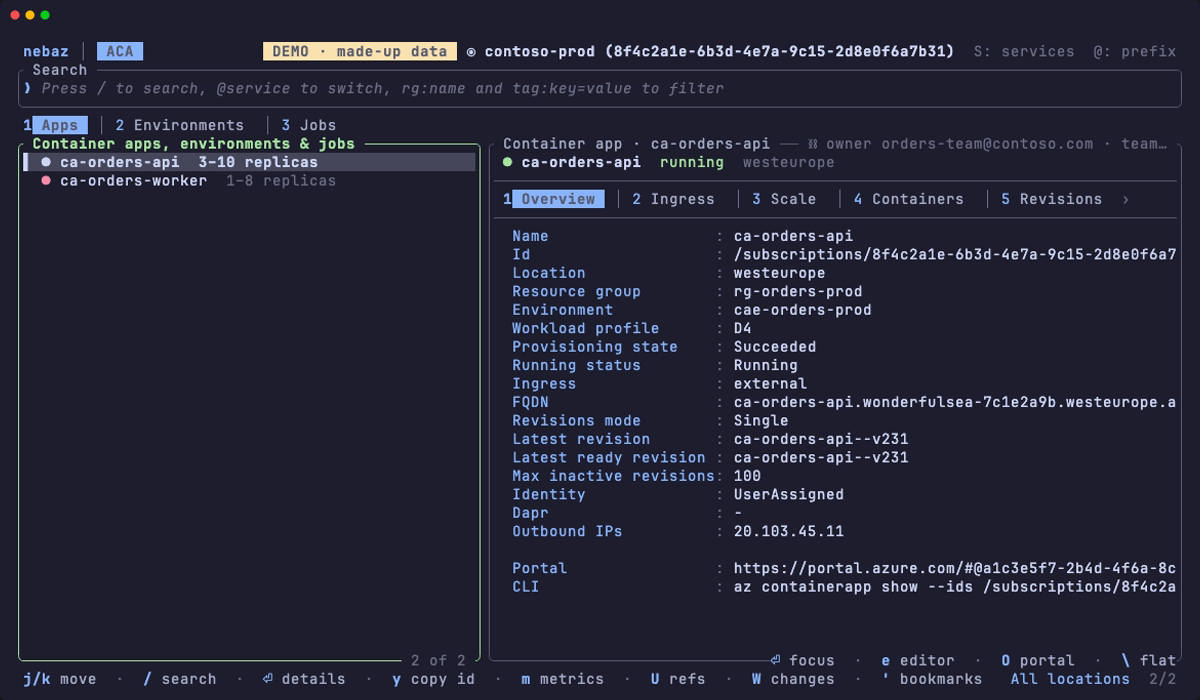
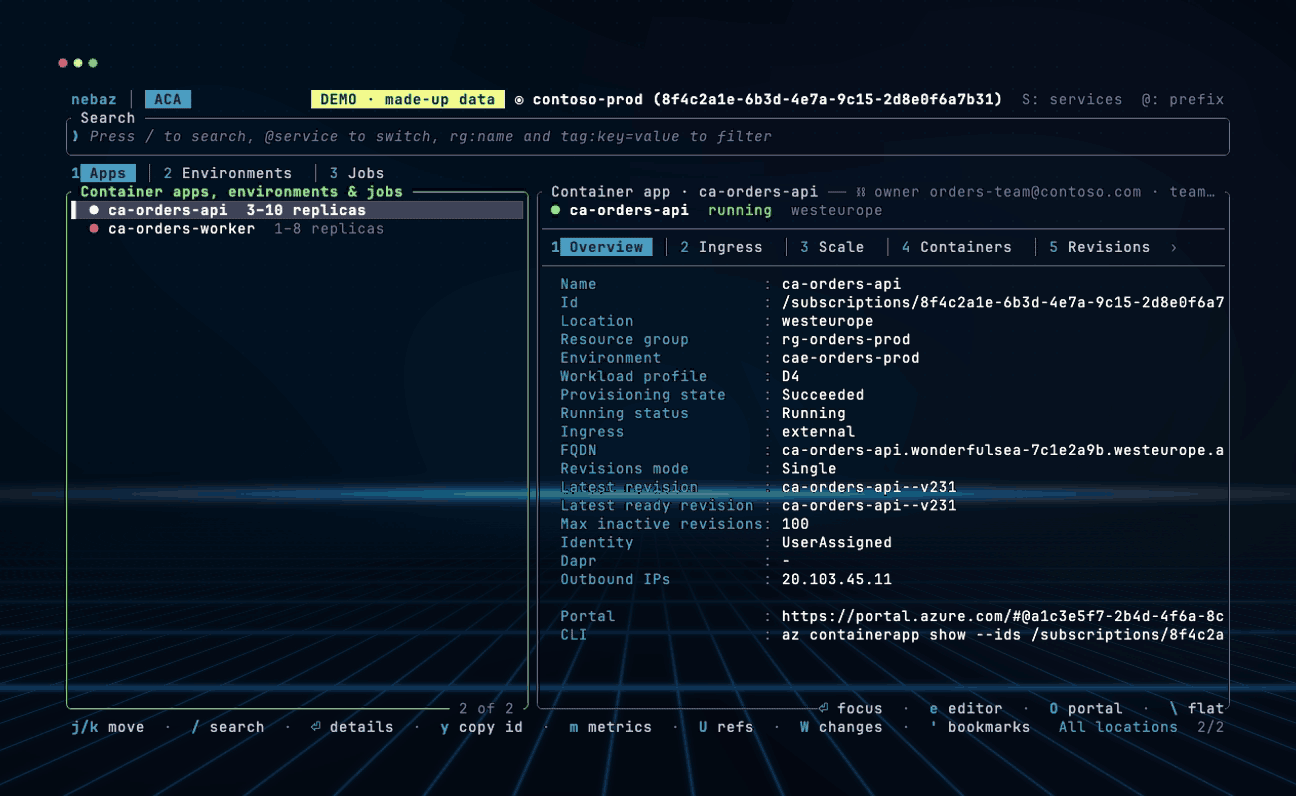
Demo: Dracula over a generated backdrop; chip text through the palette (#132)
The recordings get their own look instead of neboto's Catppuccin Mocha:
nebaz's dracula preset with the accent muted to #4a9fc4, the terminal
showing a generated Azure grid backdrop through it.

- demo/render.sh records each tape (terminal background and margin in one
  key colour, to demo/.raw/), keys the colour out and lays the take over
  demo/backdrop.png dimmed to 35%. The hero is re-paletted to 64 colours
  and its first frame becomes demo/poster.png.
- demo/backdrop.py generates the backdrop, so it carries no licence.
- Every GIF and the poster re-recorded at 1296x796 (the same 1200x700
  terminal inside a 48 px margin).
- The palette gains chip_fg, the text on a filled chip, replacing the
  hardcoded Color::Black on the active tab, the active sub-tab and the
  endpoint badge. Terminals that draw bold as bright turned bold ANSI
  black into a grey that vanished on the chip; chip_fg is RGB in every
  preset, which a test now holds.

diff --git a/src/ui/theme.rs b/src/ui/theme.rs
@@ -46,6 +46,10 @@ pub struct Palette {
     pub selection_bg_dim: Color,
     /// Selection bar text — paired with the selection backgrounds.
     pub selection_fg: Color,
+    /// Text on a filled chip (the active tab on `brand`, the endpoint badge
+    /// on `warning`). RGB, never ANSI black: terminals that draw bold as
+    /// bright turn bold ANSI black into a grey that vanishes on the chip.
+    pub chip_fg: Color,
 }
 
 /// `0xrrggbb` → `Color::Rgb` — keeps the preset tables readable.
@@ -87,6 +91,7 @@ impl Palette {
             selection_bg: Color::Rgb(38, 68, 110),
             selection_bg_dim: Color::Rgb(55, 55, 55),
             selection_fg: Color::White,
+            chip_fg: rgb(0x000000),
         }
     }
 
@@ -108,6 +113,7 @@ impl Palette {
             selection_bg: Color::Rgb(190, 210, 240),
             selection_bg_dim: Color::Rgb(222, 222, 222),
             selection_fg: Color::Black,
+            chip_fg: rgb(0x000000),
         }
     }
 
@@ -128,6 +134,7 @@ impl Palette {
             selection_bg: rgb(0x073642), // base02 (canonical highlight)
             selection_bg_dim: rgb(0x05303a),
             selection_fg: rgb(0xfdf6e3), // base3
+            chip_fg: rgb(0x002b36), // base03
         }
     }
 
@@ -148,6 +155,7 @@ impl Palette {
             selection_bg: rgb(0xeee8d5), // base2
             selection_bg_dim: rgb(0xf5efdc),
             selection_fg: rgb(0x073642), // base02
+            chip_fg: rgb(0x002b36), // base03
         }
     }
 
@@ -168,6 +176,7 @@ impl Palette {
             selection_bg: rgb(0x504945), // bg2
             selection_bg_dim: rgb(0x3c3836),
             selection_fg: rgb(0xebdbb2),
+            chip_fg: rgb(0x1d2021), // bg0_h
         }
     }
 
@@ -188,6 +197,7 @@ impl Palette {
             selection_bg: rgb(0xebdbb2),
             selection_bg_dim: rgb(0xf2e5bc),
             selection_fg: rgb(0x3c3836),
+            chip_fg: rgb(0x1d2021), // bg0_h
         }
     }
 
@@ -208,6 +218,7 @@ impl Palette {
             selection_bg: rgb(0x44475a), // current line
             selection_bg_dim: rgb(0x343746),
             selection_fg: rgb(0xf8f8f2),
+            chip_fg: rgb(0x21222c),
         }
     }
 
@@ -228,6 +239,7 @@ impl Palette {
             selection_bg: rgb(0x434c5e), // nord2
             selection_bg_dim: rgb(0x3b4252),
             selection_fg: rgb(0xeceff4),
+            chip_fg: rgb(0x2e3440), // nord0
         }
     }
 
@@ -248,6 +260,7 @@ impl Palette {
             selection_bg: rgb(0x45475a), // surface1
             selection_bg_dim: rgb(0x313244),
             selection_fg: rgb(0xcdd6f4),
+            chip_fg: rgb(0x11111b), // crust
         }
     }
 
@@ -268,6 +281,7 @@ impl Palette {
             selection_bg: rgb(0xccd0da),
             selection_bg_dim: rgb(0xdce0e8),
             selection_fg: rgb(0x4c4f69),
+            chip_fg: rgb(0x4c4f69), // text
         }
     }
 
@@ -313,6 +327,7 @@ impl Palette {
             "selection_bg" => self.selection_bg = color,
             "selection_bg_dim" => self.selection_bg_dim = color,
             "selection_fg" => self.selection_fg = color,
+            "chip_fg" => self.chip_fg = color,
             _ => return false,
         }
         true
@@ -403,6 +418,9 @@ pub fn success() -> Color {
 }
 pub fn warning() -> Color {
     palette().warning
+}
+pub fn chip_fg() -> Color {
+    palette().chip_fg
 }
 
 /// `#rrggbb` hex or an ANSI color name (the ratatui `Color` names,
@@ -545,6 +563,16 @@ mod tests {
         assert!(Palette::by_name("mocha").is_some());
         assert!(Palette::by_name("latte").is_some());
         assert!(Palette::by_name("tokyonight").is_none());
+    }
+
+    #[test]
+    fn every_preset_draws_chip_text_in_rgb() {
+        // ANSI black under bold renders as bright black (grey) in many
+        // terminals, which vanishes on the chip colour.
+        for name in PRESET_NAMES {
+            let p = Palette::by_name(name).unwrap();
+            assert!(matches!(p.chip_fg, Color::Rgb(..)), "preset {} chip_fg is not RGB", name);
+        }
     }
 
     #[test]

diff --git a/demo/backdrop.py b/demo/backdrop.py
@@ -1,0 +1,69 @@
+# /// script
+# dependencies = ["numpy", "pillow"]
+# ///
+"""The backdrop behind every demo recording: Azure glows over a navy sky,
+a glowing horizon and a perspective grid. Generated, so it carries no
+licence. demo/render.sh dims it and shows it through the terminal.
+
+    uv run demo/backdrop.py demo/backdrop.png
+
+The size is the tapes' Width × Height (the terminal plus a 48 px margin).
+"""
+import sys
+
+import numpy as np
+from PIL import Image, ImageFilter
+
+W, H = 1296, 796
+out = sys.argv[1]
+y, x = np.mgrid[0:H, 0:W].astype(np.float32)
+
+
+def hexc(h):
+    return np.array([int(h[i:i + 2], 16) for i in (1, 3, 5)], np.float32) / 255
+
+
+def glow(cx, cy, r, color, strength):
+    d = ((x - cx) ** 2 + (y - cy) ** 2) / (r * r)
+    return np.exp(-d)[..., None] * hexc(color) * strength
+
+
+# Base: deep navy, slightly lighter towards the horizon.
+t = (y / H)[..., None]
+img = hexc("#030814") * (1 - t) + hexc("#06132b") * t
+
+# Glows: Azure blue top-left, cyan right, a touch of violet top-right.
+img += glow(180, 120, 520, "#0078d4", 0.32)
+img += glow(1150, 420, 420, "#50e6ff", 0.12)
+img += glow(1050, 60, 380, "#5b3fd1", 0.20)
+
+# Perspective grid below the horizon.
+hz = H * 0.62
+grid = np.zeros((H, W), np.float32)
+below = y > hz
+depth = (y - hz) / (H - hz)  # 0 at horizon, 1 at bottom
+with np.errstate(divide="ignore", invalid="ignore"):
+    z = 1.0 / np.maximum(depth, 1e-3)  # distance into the scene
+    # horizontal lines, evenly spaced in z
+    hl = np.abs(((z * 1.6) % 1.0) - 0.5)
+    hline = np.clip(1 - hl / (0.03 * z + 0.02), 0, 1)
+    # vertical lines converge on the vanishing point
+    u = (x - W / 2) / np.maximum(depth, 1e-3) / 90
+    vl = np.abs((u % 1.0) - 0.5)
+    vline = np.clip(1 - vl / (0.02 / np.maximum(depth, 0.05) + 0.015), 0, 1)
+grid[below] = np.maximum(hline, vline)[below] * np.clip(depth[below] * 1.6, 0, 1) ** 1.8
+gimg = Image.fromarray((grid * 255).astype(np.uint8))
+soft = np.asarray(gimg.filter(ImageFilter.GaussianBlur(3)), np.float32) / 255
+img += grid[..., None] * hexc("#3aa0ff") * 0.55 + soft[..., None] * hexc("#0078d4") * 0.6
+
+# Horizon light.
+hzd = np.exp(-((y - hz) ** 2) / (2 * 6 ** 2)) * np.exp(-((x - W / 2) ** 2) / (2 * 420 ** 2))
+img += hzd[..., None] * hexc("#7fd8ff") * 0.9
+img += glow(W / 2, hz, 300, "#0078d4", 0.25) * np.clip((hz + 70 - y) / 50, 0, 1)[..., None]
+
+# Dot matrix in the sky, fading out towards the horizon.
+dots = ((x % 22 < 1.5) & (y % 22 < 1.5) & (y < hz - 20)).astype(np.float32)
+img += dots[..., None] * hexc("#8ab8ff") * 0.10 * (1 - y / hz)[..., None]
+
+img = np.clip(img, 0, 1)
+Image.fromarray((img * 255).astype(np.uint8)).save(out)

diff --git a/src/ui/widgets/service_tabs.rs b/src/ui/widgets/service_tabs.rs
@@ -5,7 +5,7 @@ use crossterm::event::KeyCode;
 use crate::ui::theme;
 use ratatui::{
     layout::Rect,
-    style::{Color, Modifier, Style},
+    style::{Modifier, Style},
     text::{Line, Span},
     widgets::Paragraph,
     Frame,
@@ -70,7 +70,7 @@ pub fn render_service_tabs(app: &App, area: Rect, frame: &mut Frame) {
     let update_style = Style::default().fg(theme::text_dim());
 
     let endpoint_style = Style::default()
-        .fg(Color::Black)
+        .fg(theme::chip_fg())
         .bg(theme::warning())
         .add_modifier(Modifier::BOLD);
     let sub_style = Style::default()
@@ -215,7 +215,7 @@ pub fn render_service_tabs(app: &App, area: Rect, frame: &mut Frame) {
             spans.push(Span::styled(
                 format!(" {} ", label),
                 Style::default()
-                    .fg(Color::Black)
+                    .fg(theme::chip_fg())
                     .bg(theme::brand())
                     .add_modifier(Modifier::BOLD),
             ));

diff --git a/src/ui/widgets/subtab_bar.rs b/src/ui/widgets/subtab_bar.rs
@@ -17,7 +17,7 @@ use crate::ui::theme;
 use crossterm::event::KeyCode;
 use ratatui::{
     layout::Rect,
-    style::{Color, Modifier, Style},
+    style::{Modifier, Style},
     text::{Line, Span},
     widgets::Paragraph,
     Frame,
@@ -137,7 +137,7 @@ pub fn chip_spans(
             spans.push(Span::styled(
                 format!(" {} ", label),
                 Style::default()
-                    .fg(Color::Black)
+                    .fg(theme::chip_fg())
                     .bg(theme::brand())
                     .add_modifier(Modifier::BOLD),
             ));

diff --git a/demo/scenes/README.md b/demo/scenes/README.md
@@ -20,18 +20,29 @@ The outage is also the hero loop, `demo/nebaz.tape`, which writes
 ## Re-recording
 
 From the repo root, with `vhs` (v0.11.0 or v0.12.1; v0.12.0 writes
-nothing, charmbracelet/vhs#787), `ttyd`, `ffmpeg` and a Nerd Font
-(JetBrainsMono Nerd Font):
+nothing, charmbracelet/vhs#787), `ttyd`, `ffmpeg`, ImageMagick (`magick`)
+and a Nerd Font (JetBrainsMono Nerd Font):
 
 ```bash
-cargo build --release                             # the tapes run ./target/release/nebaz
-vhs demo/nebaz.tape                               # the hero
-for t in demo/scenes/*.tape; do vhs "$t"; done   # writes demo/scenes/<name>.gif
+cargo build --release                  # the tapes run ./target/release/nebaz
+demo/render.sh                         # the hero and every scene (about 6 minutes)
+demo/render.sh demo/scenes/dns.tape    # just one
 ```
 
-The hero comes out near 4 MB; one ffmpeg pass (the command is in
-`demo/nebaz.tape`'s header) re-palettes it to 64 colours and under 3 MB
-with no visible change. The scenes are 2 MB or less as recorded.
+`render.sh` runs each tape, then puts the take over the backdrop. VHS
+records the terminal background and the window margin in one key colour
+(`#010203`, the tapes' `Set Theme` and `MarginFill`) to `demo/.raw/`;
+`render.sh` keys that colour out and lays the take over
+`demo/backdrop.png` dimmed to 35%, so the backdrop shows through the
+terminal and everything nebaz draws keeps its own colour. `vhs` alone only
+writes the raw take. The hero is re-paletted to 64 colours (under 3 MB, no
+visible banding) and its first frame becomes `demo/poster.png`; the scenes
+are 2 MB or less.
+
+The backdrop is generated, not a photo, so it carries no licence:
+`uv run demo/backdrop.py demo/backdrop.png` rebuilds it. The look is
+nebaz's `dracula` preset with the accent muted to `#4a9fc4`
+(`demo/nebaz.toml`).
 
 To record a binary somewhere else (an installed release, say), change the
 `Type "./target/release/nebaz …"` line in the tape's hidden boot.
@@ -39,8 +50,8 @@ To record a binary somewhere else (an installed release, say), change the
 Every tape:
 
 - runs with `--show-keys`, so a corner box names each key and what it did;
-- pins its config with `NEBAZ_CONFIG=demo/nebaz.toml` (theme, no banner,
-  no update check) and points `XDG_CONFIG_HOME` / `XDG_CACHE_HOME` at a
+- pins its config with `NEBAZ_CONFIG=demo/nebaz.toml` (theme and accent,
+  no banner, no update check) and points `XDG_CONFIG_HOME` / `XDG_CACHE_HOME` at a
   directory that doesn't exist, so the recording machine's config,
   bookmarks and macros never leak into a take;
 - sets `EDITOR=true` and never presses `e`;

diff --git a/docs/PORTED-FROM-NEBOTO.md b/docs/PORTED-FROM-NEBOTO.md
@@ -29,7 +29,7 @@ Safe to re-port by copying and re-applying the same renames.
 | `src/search/fuzzy.rs` | `src/search/fuzzy.rs` | path |
 | `src/search/query_parser.rs` | `src/search/query_parser.rs` | path; tests rewritten for the Azure prefixes |
 | `src/bookmarks.rs` | `src/bookmarks.rs` | env var / path; tests rewritten (`NavLocation` no longer carries `EcsView` / S3 paths) |
-| `src/ui/theme.rs` | `src/ui/theme.rs` | palette slot `aws_orange` → `brand` (Azure blue per preset); `"aws_orange"` still accepted as an override key |
+| `src/ui/theme.rs` | `src/ui/theme.rs` | palette slot `aws_orange` → `brand` (Azure blue per preset); `"aws_orange"` still accepted as an override key; a `chip_fg` slot (RGB per preset) replaces the hardcoded `Color::Black` on the active tab, sub-tab and endpoint badge, which bold-as-bright terminals turned into an unreadable grey |
 | `src/ui/widgets/jump_list.rs`, `macro_picker.rs`, `message_log.rs`, `subtab_bar.rs`, `search_bar.rs` | same | `theme::aws_orange()` → `theme::brand()`; one hint string |
 | `src/ui/widgets/service_selector.rs` | same | path; tests reference `Aks` / `KeyVault` |
 | `src/ui/widgets/location_selector.rs` | `src/ui/widgets/region_selector.rs` | `Region` → `Location` throughout |
